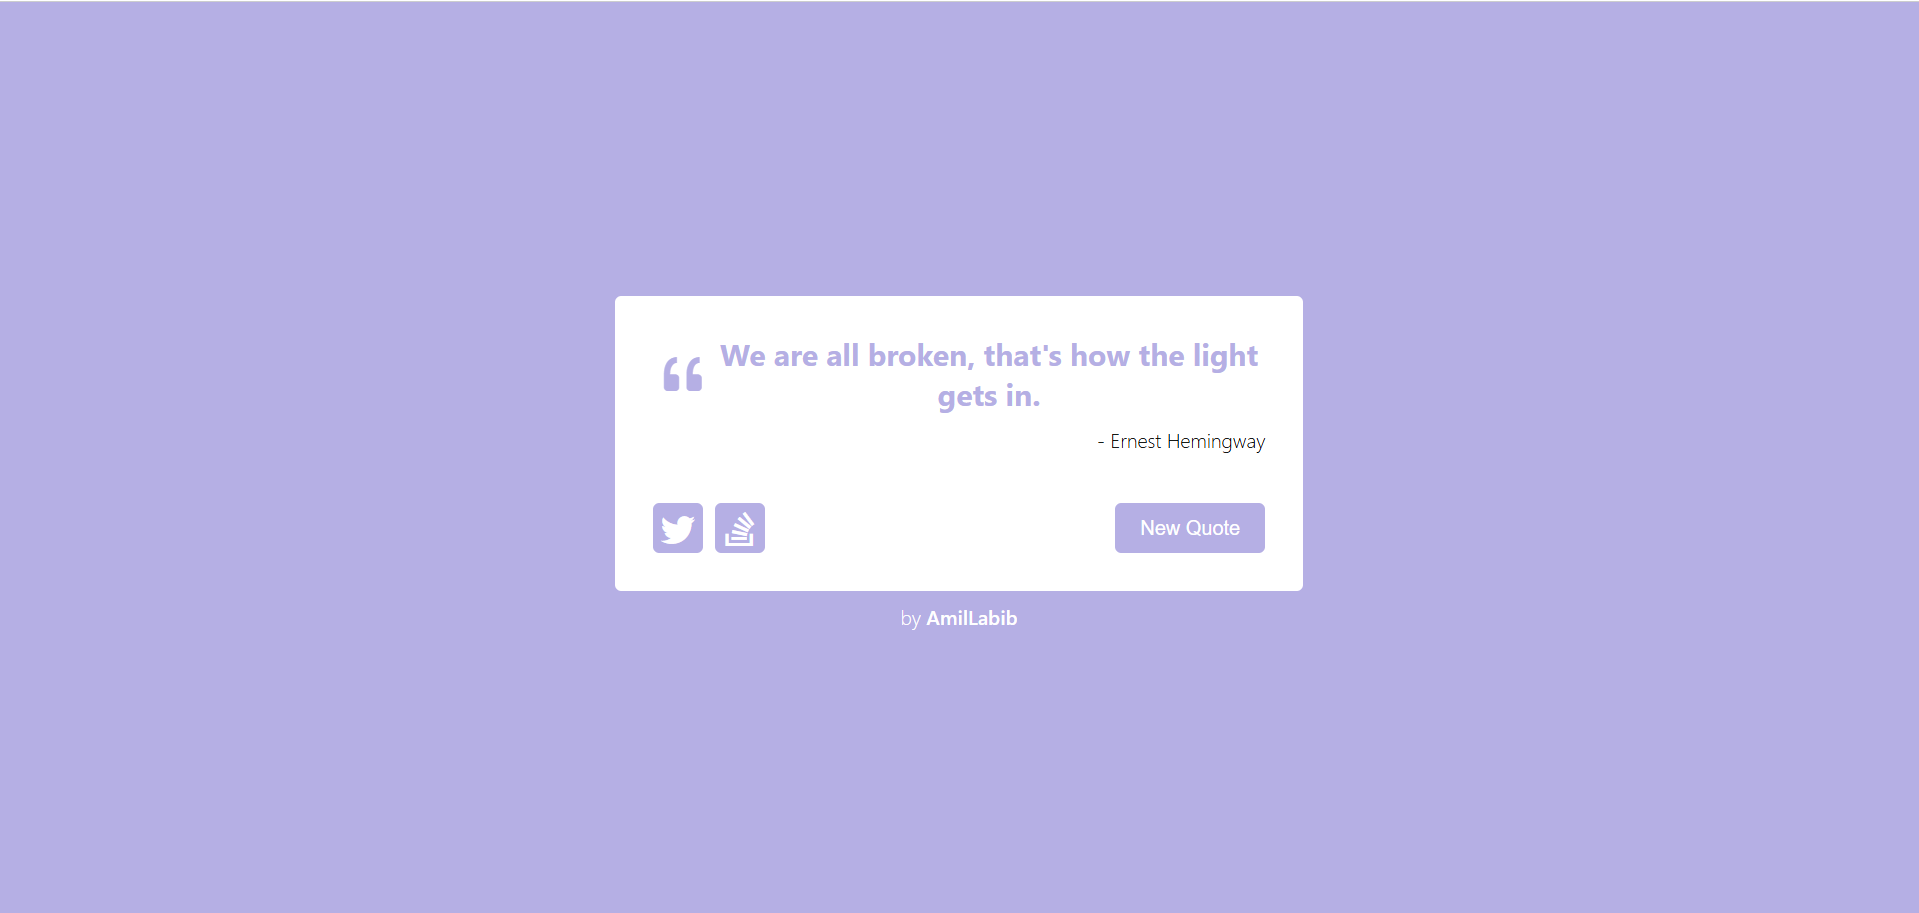
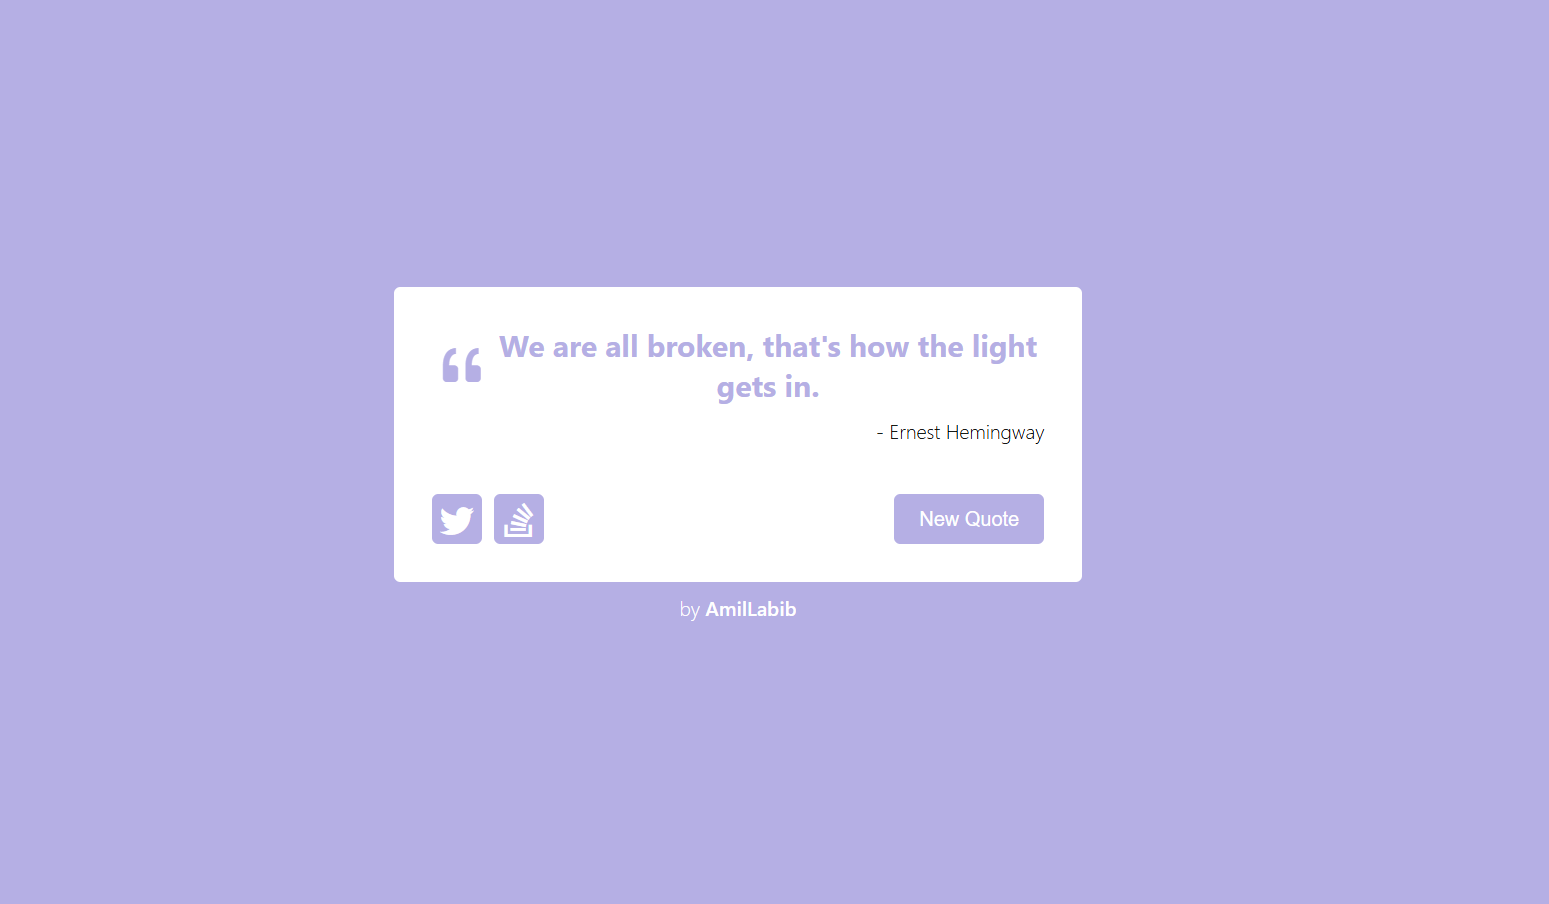
fix bugs

Changed region(s): [[0.2479, 0.3097, 0.7127, 0.6814]]

diff --git a/src/pages/Project/Project.js b/src/pages/Project/Project.js
@@ -10,7 +10,7 @@ function Project() {
           display: "flex",
           justifyContent: "center",
           alignItems: "center",
-          width: { xs: "90vw", md: "60vw" },
+          width: { xs: "90vw", md: "90vw" },
         }}
       >
         <Grid
